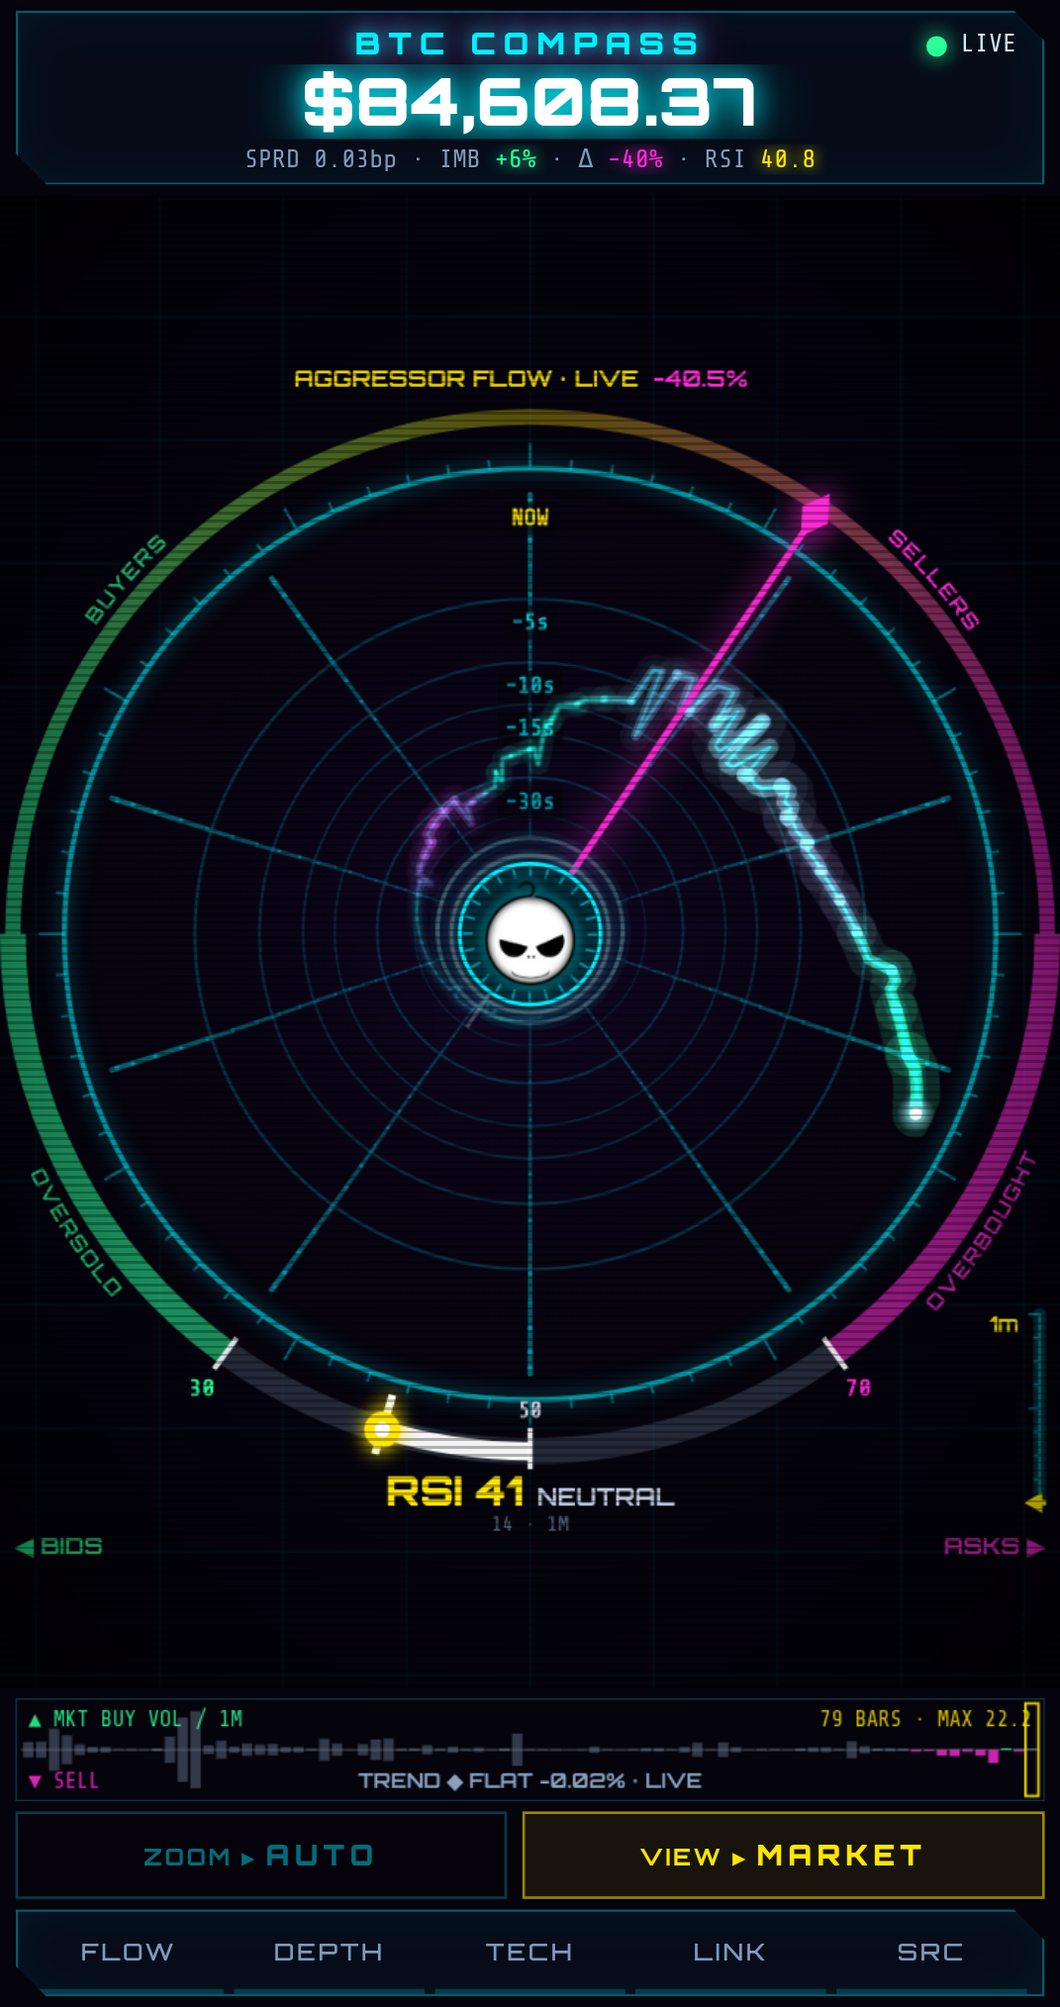
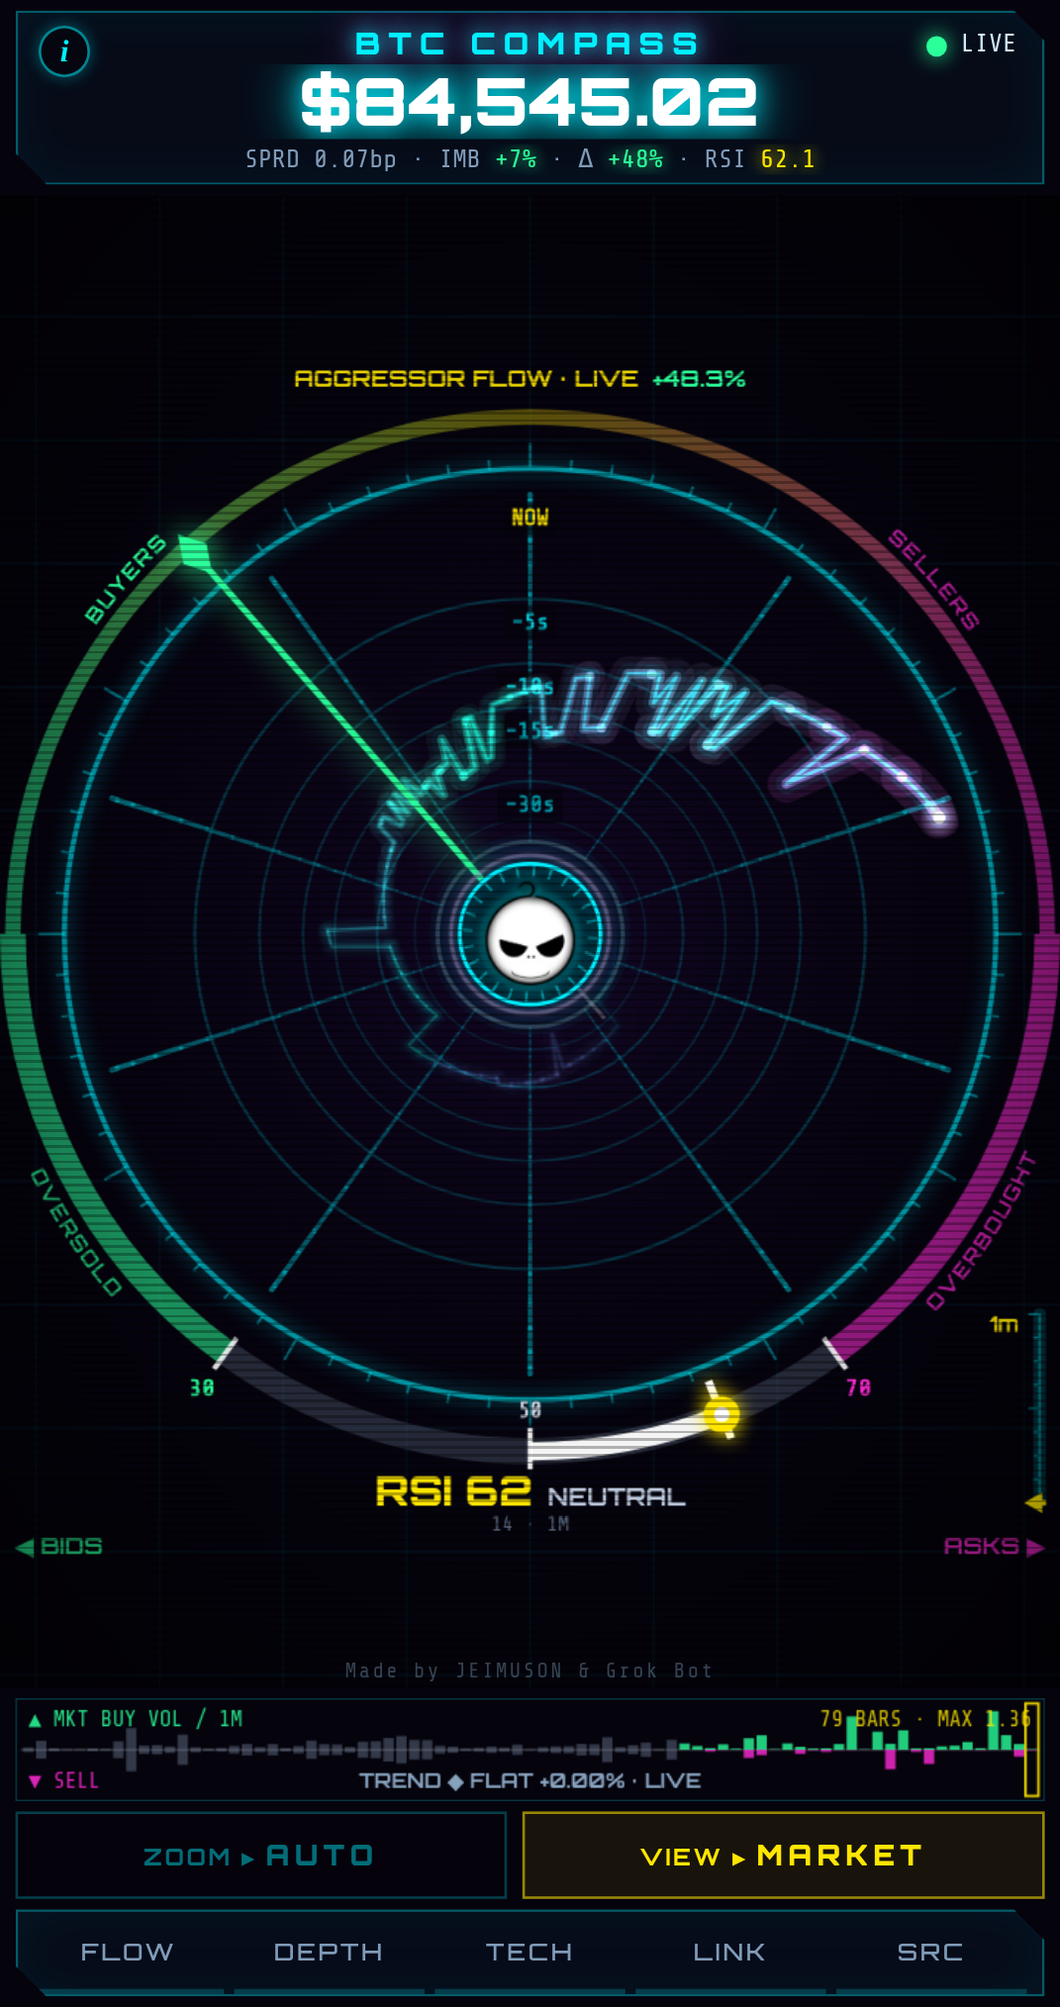
MARKET ghost walls (build 20261002-1852)

diff --git a/index.html b/index.html
@@ -3,7 +3,7 @@
 <head>
 <meta charset="utf-8">
 <meta http-equiv="Cache-Control" content="no-cache, no-store, must-revalidate"><meta http-equiv="Pragma" content="no-cache"><meta http-equiv="Expires" content="0">
-<script>window.OFC_BUILD='20261002-1710';(function(){try{if(!/^https?:/.test(location.protocol))return;fetch(location.pathname+'?_='+Date.now(),{cache:'no-store'}).then(r=>r.text()).then(t=>{const m=t.match(/OFC_BUILD='([^']+)'/);if(m&&m[1]!==window.OFC_BUILD&&sessionStorage.getItem('ofcB')!==m[1]){sessionStorage.setItem('ofcB',m[1]);location.replace(location.pathname+'?v='+m[1]+location.hash);}}).catch(()=>{});}catch(e){}})();</script>
+<script>window.OFC_BUILD='20261002-1852';(function(){try{if(!/^https?:/.test(location.protocol))return;fetch(location.pathname+'?_='+Date.now(),{cache:'no-store'}).then(r=>r.text()).then(t=>{const m=t.match(/OFC_BUILD='([^']+)'/);if(m&&m[1]!==window.OFC_BUILD&&sessionStorage.getItem('ofcB')!==m[1]){sessionStorage.setItem('ofcB',m[1]);location.replace(location.pathname+'?v='+m[1]+location.hash);}}).catch(()=>{});}catch(e){}})();</script>
 <meta name="viewport" content="width=device-width,initial-scale=1,viewport-fit=cover,user-scalable=no">
 <meta name="theme-color" content="#05030c">
 <meta name="color-scheme" content="dark">
@@ -164,7 +164,8 @@ body.hublogo #top .logo{display:none}   /* mobile: logo lives in the compass hub
  <li>One lap = the time window (15–60s, shown on the zoom bar).</li>
  <li>Trail swings <b>out</b> = price up, <b>in</b> = price down.</li>
  <li><b class="gr">Green</b> = buyers, <b class="rd">red</b> = sellers. Thicker trail = more volume.</li>
- <li><b>Flares</b> mark the spots with the heaviest trading.</li></ul>
+ <li><b>Flares</b> mark the spots with the heaviest trading.</li>
+ <li>Faint <b>ghost arcs</b> = the biggest limit walls, drawn where trades at their price would land. They flare when hit, flash when eaten, go dashed when pulled.</li></ul>
  <h3>LIMIT VIEW · ORDER-BOOK WALLS</h3>
  <ul><li>Arcs are <b>walls</b> of waiting orders: <b class="gr">buyers left</b>, <b class="rd">sellers right</b>.</li>
  <li>Distance from the middle = distance from the current price.</li>
@@ -536,7 +537,7 @@ function combine(){
     for(const [p,q] of B.a){if(p>hi)continue;if(p>M&&p<ra)ra=p;const k=Math.ceil(p/BK)*BK;am.set(k,(am.get(k)||0)+q);}}
   // venues/USDT books can overlap slightly; buckets on the wrong side of the volume-weighted mid are dropped
   sortedB=[...bm.entries()].filter(x=>x[0]<M).sort((x,y)=>y[0]-x[0]);sortedA=[...am.entries()].filter(x=>x[0]>M).sort((x,y)=>x[0]-y[0]);
-  if(EAT&&sortedB.length>12){const u=Math.max(0,Math.min(1,(Date.now()-EAT.t0-EAT.hold)/EAT.ms));if(!EAT.q0){if(!EAT.px){let bd=1e9;for(const x of sortedB){const d=Math.abs(rOf(dispMid-x[0])-0.55*RMAX);if(d<bd){bd=d;EAT.px=x[0];}}}EAT.q0=2*Math.max(...sortedB.map(x=>x[1]),...sortedA.map(x=>x[1]));}let e=sortedB.find(x=>x[0]===EAT.px);if(!e){e=[EAT.px,0];sortedB.push(e);sortedB.sort((x,y)=>y[0]-x[0]);}e[1]=EAT.q0*(1-(EAT.kind==='pull'?0.98:0.9)*u);}   // test hook: a simulated bid wall (eaten: with fills / pulled: without)
+  if(EAT&&sortedB.length>12){const u=Math.max(0,Math.min(1,(Date.now()-EAT.t0-EAT.hold)/EAT.ms));if(!EAT.q0){if(EAT.px<0)EAT.px=sortedB[Math.min(sortedB.length-1,-EAT.px)][0];if(!EAT.px){let bd=1e9;for(const x of sortedB){const d=Math.abs(rOf(dispMid-x[0])-0.55*RMAX);if(d<bd){bd=d;EAT.px=x[0];}}}EAT.q0=2*Math.max(...sortedB.map(x=>x[1]),...sortedA.map(x=>x[1]));}let e=sortedB.find(x=>x[0]===EAT.px);if(!e){e=[EAT.px,0];sortedB.push(e);sortedB.sort((x,y)=>y[0]-x[0]);}e[1]=EAT.q0*(1-(EAT.kind==='pull'?0.98:0.9)*u);}   // test hook: a simulated bid wall (eaten: with fills / pulled: without)
   if(sortedB.length>200)sortedB.length=200;if(sortedA.length>200)sortedA.length=200;
   if(!sortedB.length||!sortedA.length||!rb||ra===Infinity){BREADY=false;return;}
   bestBid=rb;bestAsk=ra;mid=simPx(one?(rb+ra)/2:M);if(!dispMid)dispMid=mid;BREADY=true;
@@ -998,7 +999,7 @@ function spVen(){   // per-venue levels mapped to the merged bucket keys + each 
     const m=(bb+aa)/2,lo=m*(1-BAND),hi=m*(1+BAND);return {v:B.v,bb:[...B.b].filter(x=>x[0]>=lo),aa:[...B.a].filter(x=>x[0]<=hi),kb:p=>Math.floor(p/BK)*BK,ka:p=>Math.ceil(p/BK)*BK,eb:Math.max(lo,mb),ea:Math.min(hi,ma)};});}
 function spEv(o){o.tt=performance.now();SPF.ev.push(o);SPF.n[o.spoof?'spoof':o.kind]++;if(SPF.ev.length>80)SPF.ev.shift();}
 setInterval(()=>{
-  if(VIEW!=='limit'||!BREADY||!mid||!REFQ||!sortedB.length||!sortedA.length){SPF.trk.clear();return;}
+  if(!BREADY||!mid||!REFQ||!sortedB.length||!sortedA.length){SPF.trk.clear();return;}
   const n=Date.now(), tol=BUCK/2+mid*0.00002, M={bid:new Map(sortedB),ask:new Map(sortedA)};
   if(EAT&&EAT.kind==='eat'&&EAT.px){const e=M.bid.get(EAT.px);if(EAT.lq!=null&&e!=null&&e<EAT.lq)trades.push({t:n,side:'sell',qty:EAT.lq-e,px:EAT.px,v:SRC==='all'?'kraken':SRC});EAT.lq=e;}   // test hook: fills for a simulated eaten wall
   let sum=0;for(const x of sortedB)sum+=x[1];for(const x of sortedA)sum+=x[1];
@@ -1439,6 +1440,7 @@ function drawTrailFlares(now){
 }
 function trailDom(){ // current dominant aggressor side over the last ~10s of the trail (-1 sell .. +1 buy)
   let b=0,x=0;for(let a=0;a<Math.min(10,trail.length);a++){b+=trail[a].bs||0;x+=trail[a].ss||0;}return b+x>0?(b-x)/(b+x):0;}
+let GWS=new Map(),GWT=0;   // MARKET ghost-wall state
 function drawTrail(now){
   if(!trail.length||!dispMid)return;
   const span=dispMid*dispRange, px2=(RMAX-R0)/span, sEnd=FOCAL/(FOCAL+HIST_SEC);
@@ -1459,14 +1461,14 @@ function drawTrail(now){
     BSP=Math.max(mid*0.00002,0.6*(dv[Math.floor(dv.length*0.9)]||0));}   // AUTO: ~90th-pct move maps to ~1.6x amplitude (tanh softens outliers)
   const WIG=[];
   const AMAX=Math.max(1,Math.min(trail.length-1+lag,MWIN)), DZ=HIST_SEC/MWIN, KO=0.985, sMin=FOCAL/(FOCAL+AMAX*DZ);
-  const pt=f=>{const age=f===0?0:f+lag,dz=age*DZ,p=proj(dz),s=p.s,sT=FOCAL/(FOCAL+dz+TURN*DZ);
+  const pt=(f,PX)=>{const age=f===0?0:f+lag,dz=age*DZ,p=proj(dz),s=p.s,sT=FOCAL/(FOCAL+dz+TURN*DZ);
     const u=Math.max(0,Math.min(1,(s-sMin)/(1-sMin)))*Math.min(1,(AMAX-age)/6+0.0);
     // radial wiggle = (trade price - newest trade) / bulge scale, amplitude scales with perspective; soft (tanh) limit ~0.55 coil gap
-    const raw=(prAt(f)-P0)/BSP*RMAX*KO*s*0.22, L=Math.max(2,0.55*RMAX*KO*(s-sT)), off=L*Math.tanh(raw/L);
+    const raw=((PX==null?prAt(f):PX)-P0)/BSP*RMAX*KO*s*0.22, L=Math.max(2,0.55*RMAX*KO*(s-sT)), off=L*Math.tanh(raw/L);
     const r=RMAX*KO*s+off, th=ang(age);   // head (f=0) = newest trade -> off 0 -> rides the outer ring
     let x=p.x+Math.cos(th)*r, y=p.y+Math.sin(th)*r;
     {const dx=x-CX,dy=y-CY,d=Math.hypot(dx,dy),m=RMAX*0.995,k0=0.9*m;if(d>k0){const dd=k0+(m-k0)*Math.tanh((d-k0)/(m-k0));x=CX+dx*dd/d;y=CY+dy*dd/d;}}   // soft outer edge
-    if(WIG.length<4000)WIG.push(off); if(f===3||f===8)(window.__ofcR=window.__ofcR||{})['o'+f]=off;
+    if(PX==null){if(WIG.length<4000)WIG.push(off); if(f===3||f===8)(window.__ofcR=window.__ofcR||{})['o'+f]=off;}
     return {x,y,s,u};};
   const SUB=MWIN<=20?10:MWIN<=45?6:MWIN<=90?4:3, sub=a=>{const o=[];for(let j=0;j<=SUB;j++)o.push(pt(a+j/SUB));return o;};
   const P=[];for(let a=0;a<=NW;a++)P.push(pt(a));
@@ -1478,6 +1480,35 @@ function drawTrail(now){
   const HT=trail.map(b=>heatAt(b.Ps));let hmx=1e-9;for(const v of HT)hmx=Math.max(hmx,v);
   const hot=HT.map(v=>Math.pow(v/hmx,1.5)), pulse=0.5+0.5*Math.sin(now/240);
   ctx.save();ctx.lineCap='round';ctx.lineJoin='round';
+  // ---- MARKET ghost walls: the biggest live LIMIT walls (merged book, top 3 per side >= 25% of the biggest level) drawn as faint contours
+  // in the spiral's own geometry: the locus where trades AT that price would land (same angle/depth/price mapping as the trail), over the
+  // newest half-turn, under the spiral. Hidden when the price sits outside the current price scale (offset saturated).
+  // Trades at the price -> flare; EATEN (classifier) -> short break flash; PULLED -> fades out as a dashed ghost.
+  if(BREADY&&sortedB.length&&sortedA.length){const tN=performance.now(),dnow=Date.now(),tol=BUCK/2+mid*0.00002;let maxq=1e-9;for(const L of [sortedB,sortedA])for(const x of L)if(x[1]>maxq)maxq=x[1];
+    const sT0=FOCAL/(FOCAL+TURN*DZ),L0=Math.max(2,0.55*RMAX*KO*(1-sT0)),vis=X=>Math.abs((X-P0)/BSP*RMAX*KO*0.22/L0),live=new Set(),dt=GWT?Math.min(0.1,(tN-GWT)/1000):0;GWT=tN;
+    for(const [side,lv] of [['bid',sortedB],['ask',sortedA]])for(const [px,q] of topBySize(lv,3)){if(q<0.25*maxq)continue;const k=side+'|'+px;live.add(k);
+      let G=GWS.get(k);if(!G){G={side,px,q,a:0,fl:0,br:-1e9,pull:-1e9,evT:tN};GWS.set(k,G);}G.q=q;}
+    for(const o of SPF.ev){if(o.kind!=='eaten'&&o.kind!=='pulled')continue;const G=GWS.get(o.side+'|'+o.px);if(G&&o.tt>G.evT){G.evT=o.tt;if(o.kind==='eaten')G.br=o.tt;else G.pull=o.tt;}}
+    const A2=Math.max(2,Math.min(AMAX,MWIN*0.5)),NC=8;
+    for(const [k,G] of GWS){const on=live.has(k),pulled=tN-G.pull<3000,brk=tN-G.br<800;
+      G.a+=((on&&!pulled?1:0)-G.a)*(1-Math.exp(-dt/(on?0.5:pulled?1.2:0.35)));
+      let hv=0;for(let i=trades.length-1;i>=0;i--){const t=trades[i];if(t.t<dnow-1200)break;if((G.side==='bid'?t.side==='sell':t.side==='buy')&&Math.abs(t.px-G.px)<=tol)hv+=t.qty;}
+      const ft=Math.min(1,hv/(0.08*G.q+1e-9));G.fl+=(ft-G.fl)*(ft>G.fl?0.35:1-Math.exp(-dt/0.6));
+      if(!on&&G.a<0.01&&!brk&&!pulled){GWS.delete(k);continue;}
+      const v=vis(G.px),va=Math.max(0,Math.min(1,(1.3-v)/0.3));G.v=v;G.A=0;if(va<=0)continue;
+      const rel=Math.sqrt(Math.min(1,G.q/maxq)),bu=brk?1-(tN-G.br)/800:0,c=G.side==='bid'?COL.bid:COL.ask;
+      const A=va*Math.max(G.a,pulled?Math.max(0,1-(tN-G.pull)/3000):0,bu);G.A=A;if(A<=0.01)continue;
+      const pts=[];for(let f=0;f<=A2+1e-6;f+=0.5)pts.push([f,pt(f,G.px)]);
+      ctx.save();ctx.lineCap='round';
+      if(pulled&&!on){ctx.setLineDash([6,6]);ctx.lineDashOffset=-tN/45;}else if(brk){ctx.setLineDash([10*(1-bu)+3,7+12*(1-bu)]);}
+      const col=pulled&&!on?[215,200,255]:brk?[Math.min(255,c[0]+110),Math.min(255,c[1]+110),Math.min(255,c[2]+110)]:c;
+      ctx.lineWidth=(1+3*rel+4*G.fl+6*bu)*Math.max(0.8,RMAX/400);
+      if(Q>0&&(G.fl>0.15||bu>0)){ctx.shadowColor=rgba(c,1);ctx.shadowBlur=10+18*Math.max(G.fl,bu);}
+      for(let ci=0;ci<NC;ci++){const i0=Math.floor(ci*(pts.length-1)/NC),i1=Math.floor((ci+1)*(pts.length-1)/NC);if(i1<=i0)continue;const fm=pts[(i0+i1)>>1][0],um=pts[(i0+i1)>>1][1].u;
+        const al=A*(0.09+0.13*rel+0.5*G.fl+0.6*bu)*Math.pow(um,0.8)*Math.pow(Math.max(0,1-fm/A2),0.7);if(al<=0.004)continue;
+        ctx.strokeStyle=rgba(col,Math.min(0.9,al).toFixed(3));ctx.beginPath();ctx.moveTo(pts[i0][1].x,pts[i0][1].y);for(let i=i0+1;i<=i1;i++)ctx.lineTo(pts[i][1].x,pts[i][1].y);ctx.stroke();}
+      ctx.restore();}
+  }
   // centreline spine: thin continuous track that fades into the vanishing point
   ctx.lineWidth=1;
   const S=[];for(let a=0;a<P.length-1;a++)S.push(sub(a));
@@ -1691,7 +1722,7 @@ function frame(){
   drawGrid(now);
   const LIM=VIEW==='limit';
   const clipC=()=>{ctx.save();ctx.beginPath();ctx.arc(CX,CY,RMAX+1,0,Math.PI*2);ctx.clip();};
-  if(LIM){clipC();drawHistory(now);ctx.restore();} else {if(trailDirty)buildTrail();}
+  if(LIM){clipC();drawHistory(now);ctx.restore();} else {updRefQ(now);if(trailDirty)buildTrail();}
   drawPriceRings();
   if(LIM){drawBook(now);drawPriceLabels();}else PLBL=[];
   if(!LIM){clipC();drawTrail(now);ctx.restore();drawMouthHead(now);drawTrailFlares(now);}sparks.length=0;shocks.length=0;
@@ -1709,7 +1740,7 @@ function frame(){
 connect();seedREST();
 requestAnimationFrame(frame);
 document.addEventListener('visibilitychange',()=>{if(!document.hidden&&(!ws||ws.readyState>1)){backoff=1000;connect();}});
-window.__ofc={simEat(ms,kind,hold,px){EAT={t0:Date.now(),ms,kind:kind||'eat',hold:hold==null?0:hold,px:px||0,q0:0,lq:null};},get spoof(){return {n:{...SPF.n},trk:SPF.trk.size,ev:SPF.ev.slice(-6).map(o=>({k:o.kind,s:o.side,px:o.px,q0:+o.q0.toFixed(1),q1:+o.q1.toFixed(1),ratio:o.ratio,spoof:o.spoof,big:o.big,ven:o.ven}))}},get eat(){const n=performance.now();return EAT&&{px:EAT.px,q0:EAT.q0,ref:REFQ,cp:history.filter((h,i)=>i%8===0&&(n-h.t)/1000<=LWIN).map(h=>{const e=h.b.find(x=>x[0]===EAT.px);return e?[Math.round((n-h.t)/1000),+levelSpan(e[1],REFQ||h.maxq).toFixed(3)]:null;}).filter(Boolean)}},get mt(){return {w:+MT.w.toFixed(1),q:+MT.q.toFixed(2),z:+MT.z.toFixed(2),sg:MT.sg,burst:burst.on}},get lt(){return {w:+LT.w.toFixed(1),rho:+LT.rho.toFixed(2),lwin:+LWIN.toFixed(1),burst:burst.on}},get keyWalls(){return VIEW==='limit'?{...KEYW,nSig:{bid:topWalls.bid.length,ask:topWalls.ask.length},marks:PLBL.map(q=>q.txt)}:null},simFlat(){SIM={on:true,base:mid,t0:0,dir:0,amp:0,ramp:1};},simMove(dir,frac,ramp){SIM.t0=Date.now();SIM.dir=dir;SIM.amp=frac*SIM.base;SIM.ramp=ramp;},get resp(){const v=proj(HIST_SEC),m=proj(HIST_SEC*0.4);return {tw:+(TWIST_MAX*VSP.w*180/Math.PI).toFixed(2),vp:+(v.y-CY).toFixed(1),vm:+(m.y-CY).toFixed(1),o3:+((window.__ofcR||{}).o3||0).toFixed(1),o8:+((window.__ofcR||{}).o8||0).toFixed(1),mw:+MWIN.toFixed(1),dr:dispRange,pr:pathRef}},get bp(){return BP.length},autoOff(){pillT=0;if(rangeAuto)pillTap();},get dr(){return dispRange},get hubLogo(){return !WIDE&&LOGO.complete&&LOGO.naturalWidth>0},get hdrLogo(){const e=document.querySelector('#top .logo');return !!e&&getComputedStyle(e).display!=='none'},get flares(){return VIEW==='market'?[...FLR.entries()].map(([k,F])=>{const p=F.dx!=null?{x:F.dx,y:F.dy}:null;return {k,T:F.T,tT:trailT,st:trailStep,w:+F.w.toFixed(2),on:!!F.on,side:F.c===COL.bid?'bid':'ask',x:p?Math.round(p.x):null,y:p?Math.round(p.y):null};}):null},winTo(S){intro=null;setAuto(false);syncZA();let lo=0,hi=1;const f=u=>mWinOf(zR(u));const dec=f(0)>f(1);for(let i=0;i<40;i++){const m=(lo+hi)/2;if((f(m)>S)===dec)lo=m;else hi=m;}rangeFrac=zR((lo+hi)/2);return f((lo+hi)/2);},get vring(){if(VIEW!=='market')return null;const p=proj(HIST_SEC);return {full:+(RMAX*p.s).toFixed(1),r:+(RMAX*p.s).toFixed(1),x:Math.round(p.x),y:Math.round(p.y),R0:Math.round(R0)}},get twist(){return VIEW==='market'?+(TWIST_MAX*VSP.w*180/Math.PI).toFixed(1):0},get spin(){return {w:+VSP.w.toFixed(3),ph:+VSP.ph.toFixed(3)}},zManual(){intro=null;setAuto(false);syncZA();},get burst(){return {...burst,now:Date.now()}},simBurst(usd){const px=trades.length?trades[trades.length-1].px:mid,n=Date.now();for(let k=0;k<8;k++)trades.push({t:n-(7-k)*300,side:k%2?'sell':'buy',qty:usd/8/px,px,v:'kraken'});trailDirty=true;},get auto(){return rangeAuto},zAuto(){intro=null;setAuto(true);syncZA();},zIn(){intro=null;setAuto(false);rangeFrac=zR(1);syncZA();},get mwin(){return +MWIN.toFixed(1)},get lwin(){return +LWIN.toFixed(1)},get prange(){return PRANGE},get disp(){return dispRange},get plbl(){return PLBL.map(q=>q.txt)},get hubTxt(){return mid?hubTxt():null},get head(){return {x:Math.round(TRHEAD.x),y:Math.round(TRHEAD.y),CX,CY,R0:Math.round(R0),RMAX:Math.round(RMAX)}},get logo(){const g=logoGeom();return g&&{x:Math.round(g.x),y:Math.round(g.y),S:g.S,CX,CY,RMAX,W,H,Z:zbarGeom()}},get ven(){return Object.fromEntries(Object.entries(VEN).map(([k,v])=>[k,{st:v.st,share:+v.share.toFixed(3),books:BOOKS.filter(B=>B.v===k).map(B=>({k:B.k,ready:B.ready,n:B.b.size+B.a.size,ck:B.ckOk,ckBad:B.ckBad,resyncs:B.resyncs}))}]))},get src(){return SRC},setSource,get comb(){return {ready:BREADY,mid,bestBid,bestAsk,nb:sortedB.length,na:sortedA.length}},get raw(){return RAW.length},get flow(){const f=flow(30);return {b:Math.round(f.b),s:Math.round(f.s),r:+f.r.toFixed(3)}},get trendW(){return trendWin()},get win(){return winSec},get heatN(){return Object.fromEntries(Object.entries(HEATS).map(([w,H])=>[w,H.m.size]))},get intro(){return intro},book,get mid(){return mid},get ck(){return {ckOk,ckBad,ckLast}},get trades(){return tradeCount},get bubbles(){return bubbles.length},get hist(){return history.length},get ind(){return ind},get candles(){return candles.size},get dir(){return INBOUND?'in':'out'},get view(){return VIEW},get layout(){return {W,H,CX,CY,RMAX,R0,WIDE}},get tunnel(){const far=proj(HIST_SEC);return {FOCAL,farScale:far.s,farY:far.y-CY,dispRange,fitFrac,rangeAuto,RMAX}},zoom(f){setAuto(false);rangeFrac=Math.min(0.08,Math.max(0.0005,rangeFrac*f));},autoZoom(){setAuto(true);},get autoOn(){return rangeAuto},get zgeom(){return zbarGeom()},get conn(){return connState},get fps(){return FPS},get q(){return Q},get rc(){return reconnects},forceDrop(){ws&&ws.close();}};
+window.__ofc={get gw(){return [...GWS.values()].map(G=>({s:G.side,px:G.px,a:+G.a.toFixed(2),fl:+G.fl.toFixed(2),br:performance.now()-G.br<800,pull:performance.now()-G.pull<3000,v:+(G.v||0).toFixed(2),A:+(G.A||0).toFixed(2)}))},simEat(ms,kind,hold,px){EAT={t0:Date.now(),ms,kind:kind||'eat',hold:hold==null?0:hold,px:px||0,q0:0,lq:null};},get spoof(){return {n:{...SPF.n},trk:SPF.trk.size,ev:SPF.ev.slice(-6).map(o=>({k:o.kind,s:o.side,px:o.px,q0:+o.q0.toFixed(1),q1:+o.q1.toFixed(1),ratio:o.ratio,spoof:o.spoof,big:o.big,ven:o.ven}))}},get eat(){const n=performance.now();return EAT&&{px:EAT.px,q0:EAT.q0,ref:REFQ,cp:history.filter((h,i)=>i%8===0&&(n-h.t)/1000<=LWIN).map(h=>{const e=h.b.find(x=>x[0]===EAT.px);return e?[Math.round((n-h.t)/1000),+levelSpan(e[1],REFQ||h.maxq).toFixed(3)]:null;}).filter(Boolean)}},get mt(){return {w:+MT.w.toFixed(1),q:+MT.q.toFixed(2),z:+MT.z.toFixed(2),sg:MT.sg,burst:burst.on}},get lt(){return {w:+LT.w.toFixed(1),rho:+LT.rho.toFixed(2),lwin:+LWIN.toFixed(1),burst:burst.on}},get keyWalls(){return VIEW==='limit'?{...KEYW,nSig:{bid:topWalls.bid.length,ask:topWalls.ask.length},marks:PLBL.map(q=>q.txt)}:null},simFlat(){SIM={on:true,base:mid,t0:0,dir:0,amp:0,ramp:1};},simMove(dir,frac,ramp){SIM.t0=Date.now();SIM.dir=dir;SIM.amp=frac*SIM.base;SIM.ramp=ramp;},get resp(){const v=proj(HIST_SEC),m=proj(HIST_SEC*0.4);return {tw:+(TWIST_MAX*VSP.w*180/Math.PI).toFixed(2),vp:+(v.y-CY).toFixed(1),vm:+(m.y-CY).toFixed(1),o3:+((window.__ofcR||{}).o3||0).toFixed(1),o8:+((window.__ofcR||{}).o8||0).toFixed(1),mw:+MWIN.toFixed(1),dr:dispRange,pr:pathRef}},get bp(){return BP.length},autoOff(){pillT=0;if(rangeAuto)pillTap();},get dr(){return dispRange},get hubLogo(){return !WIDE&&LOGO.complete&&LOGO.naturalWidth>0},get hdrLogo(){const e=document.querySelector('#top .logo');return !!e&&getComputedStyle(e).display!=='none'},get flares(){return VIEW==='market'?[...FLR.entries()].map(([k,F])=>{const p=F.dx!=null?{x:F.dx,y:F.dy}:null;return {k,T:F.T,tT:trailT,st:trailStep,w:+F.w.toFixed(2),on:!!F.on,side:F.c===COL.bid?'bid':'ask',x:p?Math.round(p.x):null,y:p?Math.round(p.y):null};}):null},winTo(S){intro=null;setAuto(false);syncZA();let lo=0,hi=1;const f=u=>mWinOf(zR(u));const dec=f(0)>f(1);for(let i=0;i<40;i++){const m=(lo+hi)/2;if((f(m)>S)===dec)lo=m;else hi=m;}rangeFrac=zR((lo+hi)/2);return f((lo+hi)/2);},get vring(){if(VIEW!=='market')return null;const p=proj(HIST_SEC);return {full:+(RMAX*p.s).toFixed(1),r:+(RMAX*p.s).toFixed(1),x:Math.round(p.x),y:Math.round(p.y),R0:Math.round(R0)}},get twist(){return VIEW==='market'?+(TWIST_MAX*VSP.w*180/Math.PI).toFixed(1):0},get spin(){return {w:+VSP.w.toFixed(3),ph:+VSP.ph.toFixed(3)}},zManual(){intro=null;setAuto(false);syncZA();},get burst(){return {...burst,now:Date.now()}},simBurst(usd){const px=trades.length?trades[trades.length-1].px:mid,n=Date.now();for(let k=0;k<8;k++)trades.push({t:n-(7-k)*300,side:k%2?'sell':'buy',qty:usd/8/px,px,v:'kraken'});trailDirty=true;},get auto(){return rangeAuto},zAuto(){intro=null;setAuto(true);syncZA();},zIn(){intro=null;setAuto(false);rangeFrac=zR(1);syncZA();},get mwin(){return +MWIN.toFixed(1)},get lwin(){return +LWIN.toFixed(1)},get prange(){return PRANGE},get disp(){return dispRange},get plbl(){return PLBL.map(q=>q.txt)},get hubTxt(){return mid?hubTxt():null},get head(){return {x:Math.round(TRHEAD.x),y:Math.round(TRHEAD.y),CX,CY,R0:Math.round(R0),RMAX:Math.round(RMAX)}},get logo(){const g=logoGeom();return g&&{x:Math.round(g.x),y:Math.round(g.y),S:g.S,CX,CY,RMAX,W,H,Z:zbarGeom()}},get ven(){return Object.fromEntries(Object.entries(VEN).map(([k,v])=>[k,{st:v.st,share:+v.share.toFixed(3),books:BOOKS.filter(B=>B.v===k).map(B=>({k:B.k,ready:B.ready,n:B.b.size+B.a.size,ck:B.ckOk,ckBad:B.ckBad,resyncs:B.resyncs}))}]))},get src(){return SRC},setSource,get comb(){return {ready:BREADY,mid,bestBid,bestAsk,nb:sortedB.length,na:sortedA.length}},get raw(){return RAW.length},get flow(){const f=flow(30);return {b:Math.round(f.b),s:Math.round(f.s),r:+f.r.toFixed(3)}},get trendW(){return trendWin()},get win(){return winSec},get heatN(){return Object.fromEntries(Object.entries(HEATS).map(([w,H])=>[w,H.m.size]))},get intro(){return intro},book,get mid(){return mid},get ck(){return {ckOk,ckBad,ckLast}},get trades(){return tradeCount},get bubbles(){return bubbles.length},get hist(){return history.length},get ind(){return ind},get candles(){return candles.size},get dir(){return INBOUND?'in':'out'},get view(){return VIEW},get layout(){return {W,H,CX,CY,RMAX,R0,WIDE}},get tunnel(){const far=proj(HIST_SEC);return {FOCAL,farScale:far.s,farY:far.y-CY,dispRange,fitFrac,rangeAuto,RMAX}},zoom(f){setAuto(false);rangeFrac=Math.min(0.08,Math.max(0.0005,rangeFrac*f));},autoZoom(){setAuto(true);},get autoOn(){return rangeAuto},get zgeom(){return zbarGeom()},get conn(){return connState},get fps(){return FPS},get q(){return Q},get rc(){return reconnects},forceDrop(){ws&&ws.close();}};
 })();
 // ---------------- INFO overlay: what am I looking at? (✕ / tap outside / Esc) ----------------
 (function(){const I=document.getElementById('info'),B=document.getElementById('infoBtn');if(!I||!B)return;
